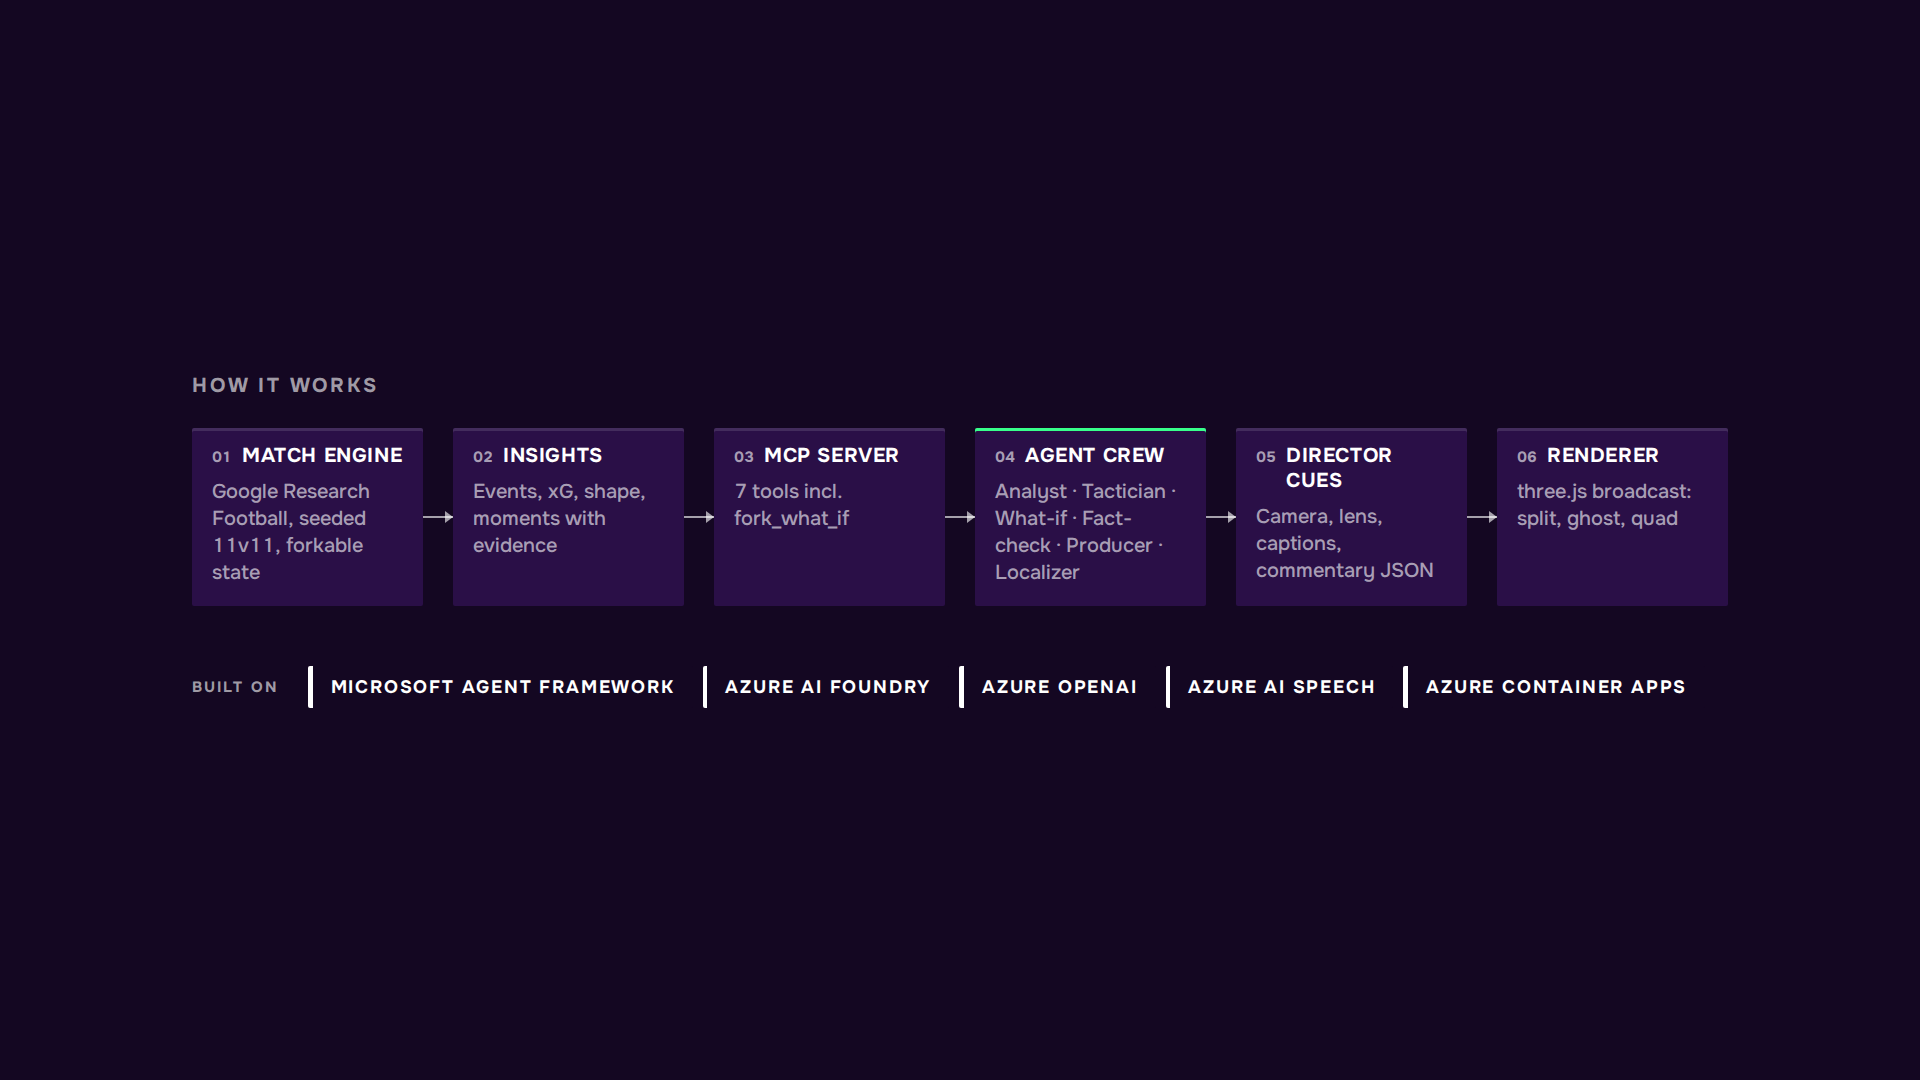
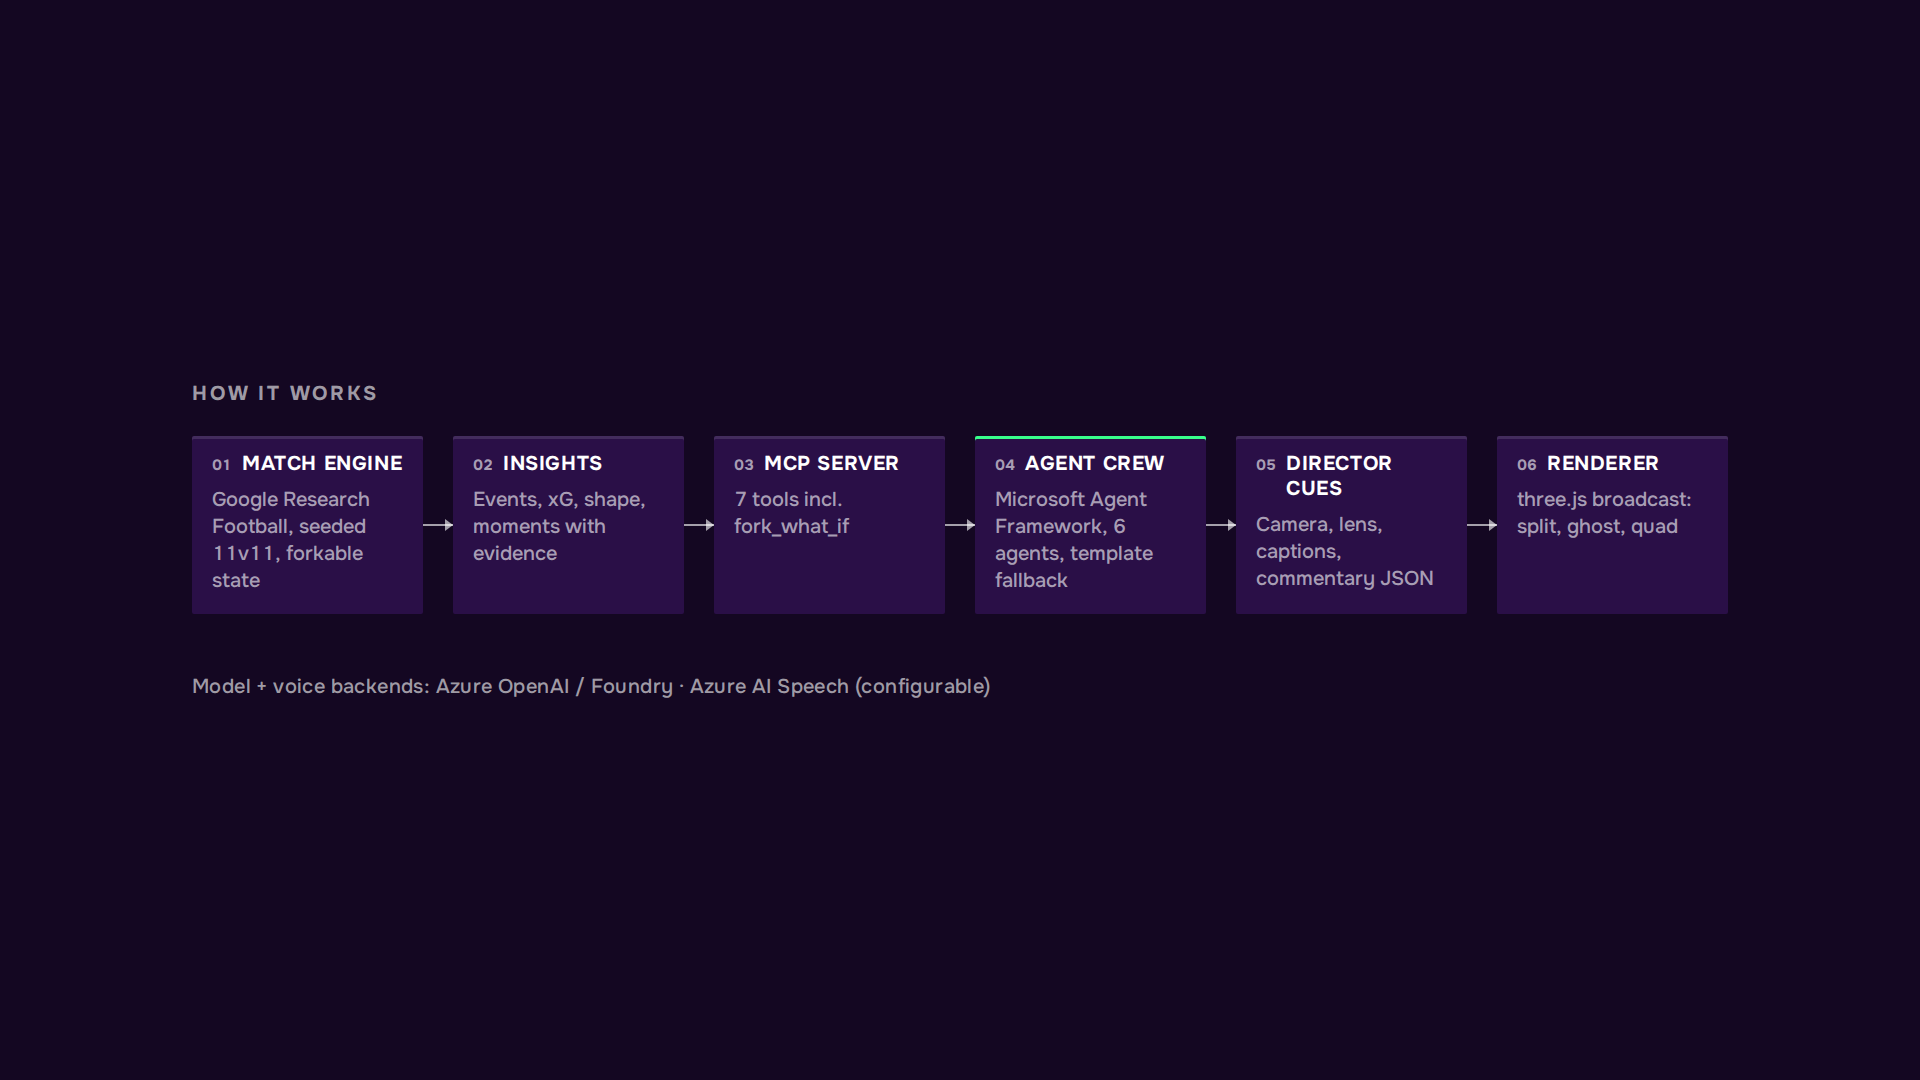
video/README: no live-Azure claims - arch card drops Azure chips + Container Apps for one muted 'configurable backends' line; agent crew notes template fallback; README voice optional, Container Apps marked planned deploy

Changed region(s): [[0.0938, 0.3361, 0.9062, 0.5806], [0.0938, 0.6111, 0.875, 0.6417]]

diff --git a/web/video/cards.ts b/web/video/cards.ts
@@ -8,7 +8,6 @@ const q = new URLSearchParams(location.search), card = q.get('card') ?? 'inter',
 document.body.className = `c-${card}`;
 const node = (k: string, title: string, sub: string, cls = '') =>
   `<div class="agent ${cls}"><div class="ag-top"><span class="ag-idx">${k}</span><span class="ag-name">${title}</span></div><div class="ag-role">${sub}</div></div>`;
-const badge = (t: string) => `<span class="badge neutral scaled"><span>${t}</span></span>`;
 
 if (card === 'inter') el.innerHTML = `<div class="fs-kicker">${q.get('kicker') ?? ''}</div><h1 class="fs-title">${q.get('text') ?? ''}</h1>`;
 if (card === 'rewind') el.innerHTML = `<div class="rw scaled"><span class="badge whatif"><span>Rewind</span><span class="bd-v">${q.get('time') ?? '01:06'}</span></span></div>`;
@@ -19,9 +18,9 @@ if (card === 'arch') el.innerHTML = `<div class="fs-kicker">How it works</div>
     ${node('01', 'Match engine', 'Google Research Football, seeded 11v11, forkable state')}<i class="ar-arrow"></i>
     ${node('02', 'Insights', 'Events, xG, shape, moments with evidence')}<i class="ar-arrow"></i>
     ${node('03', 'MCP server', '7 tools incl. fork_what_if')}<i class="ar-arrow"></i>
-    ${node('04', 'Agent crew', 'Analyst · Tactician · What-if · Fact-check · Producer · Localizer', 'focus')}<i class="ar-arrow"></i>
+    ${node('04', 'Agent crew', 'Microsoft Agent Framework, 6 agents, template fallback', 'focus')}<i class="ar-arrow"></i>
     ${node('05', 'Director cues', 'Camera, lens, captions, commentary JSON')}<i class="ar-arrow"></i>
     ${node('06', 'Renderer', 'three.js broadcast: split, ghost, quad')}
   </div>
-  <div class="ar-stack"><span class="fs-kicker">Built on</span>${['Microsoft Agent Framework', 'Azure AI Foundry', 'Azure OpenAI', 'Azure AI Speech', 'Azure Container Apps'].map(badge).join('')}</div>`;
+  <div class="ar-note">Model + voice backends: Azure OpenAI / Foundry · Azure AI Speech (configurable)</div>`;
 document.fonts.ready.then(() => { (window as any).__ready = true; });

diff --git a/web/video/cards.css b/web/video/cards.css
@@ -18,3 +18,5 @@ body.c-rewind, html:has(body.c-rewind) { background: transparent; }
 .ar-stack .fs-kicker { margin-right: var(--s4); font-size: var(--fs-1); white-space: nowrap; }
 .ar-stack .badge { --k: 1.2; flex: none; }
 .ar-row .ag-top { flex-wrap: nowrap; }
+
+.ar-note { margin-top: calc(var(--u) * 12); font-size: var(--fs-2); color: var(--text-2); letter-spacing: 0.02em; }

diff --git a/README.md b/README.md
@@ -14,7 +14,7 @@
 | **Interpret** | Events (passes, shots, tackles, goals) and metrics are derived from the frames: pass difficulty, xG, sprints, synthetic heart rate, possession, line height, pressing and control vs chaos. Moments are ranked, each with evidence. | `engine/insights.py` |
 | **Explain** | A Microsoft Agent Framework crew reads the match only through MCP tools. The Analyst picks what matters, the Tactician explains why, and the What-If agent forks the key moment. The Fact-checker re-verifies every number against tool output. | `engine/mcp_server.py`, `agents/crew.py` |
 | **Render** | A three.js broadcast renderer shows split and ghost what-if views, a casual-to-tactical lens, camera cuts and captions. A director cue JSON drives it. | `web/` |
-| **Personalize** | The Producer and Localizer write a cue script and commentary per persona (casual, analyst, or one player in the second person) and language (en, es, tr, de). Azure AI Speech voices it. | `agents/crew.py`, `agents/voice.py` |
+| **Personalize** | The Producer and Localizer write a cue script and commentary per persona (casual, analyst, or one player in the second person) and language (en, es, tr, de). It can voice it via Azure AI Speech (optional). | `agents/crew.py`, `agents/voice.py` |
 
 ```mermaid
 flowchart LR
@@ -27,7 +27,7 @@ flowchart LR
   Q --> W["three.js renderer<br/>split · ghost · lens · control room"]
   Q --> S["Azure AI Speech<br/>neural voices"]
   S --> W
-  subgraph ACA["target deploy: Azure Container Apps"]
+  subgraph ACA["planned deploy: Azure Container Apps"]
     GRF
     I
     M
